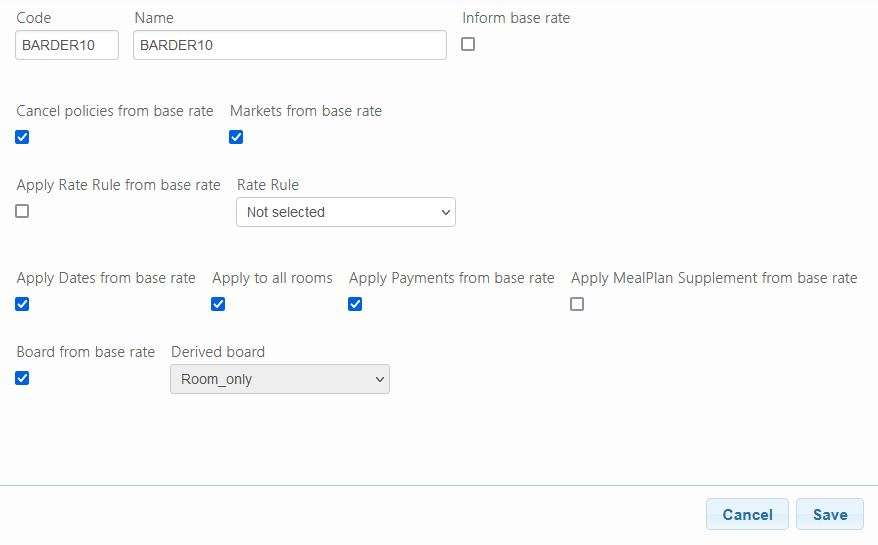
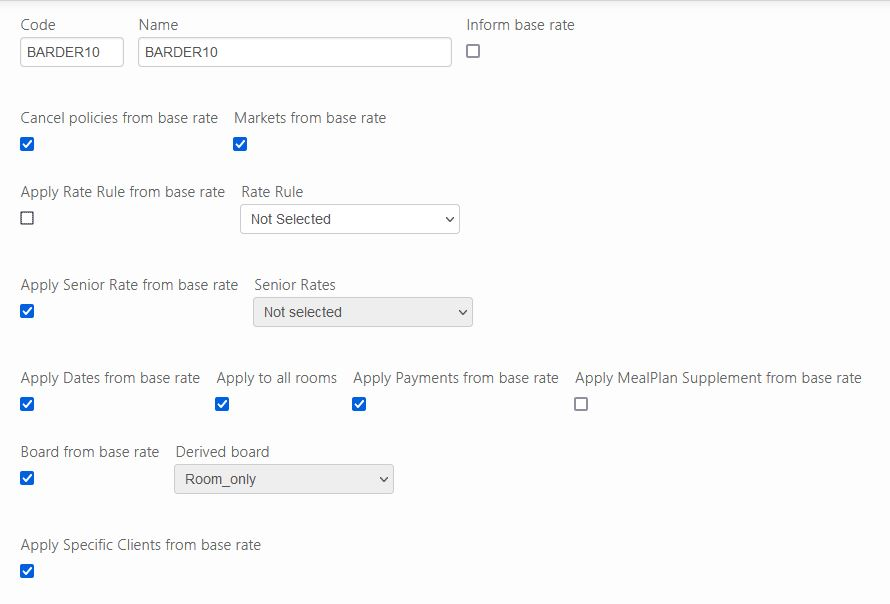
Add senior rate editable to derived rates

diff --git a/content/connectiontypesbuyers/channel-x/api-reference/messages/_index.md b/content/connectiontypesbuyers/channel-x/api-reference/messages/_index.md
@@ -211,7 +211,7 @@ The ``HotelRatePlanInventoryNotif`` message contains information about the inven
 | @Start      				          | 0..1 	  | Date	   | Booking Start Date for which the rate will be available.               |
 | @End        				          | 0..1	  | Date     | Booking Start Date for which the rate will be available.               |
 | @RatePlanType        				  | 0..1	  | String     | Rate rule to apply. 0 - No selected, 7 - Large Family, 8 - Public Servant, 10 - Negotiated, 11 - Package, 34 - Canary Resident, 35 - Balearic Resident, 36 - Honeymoon. If the attribute is not present and it is a base rate, the value is 0, if it is a derived rate, the value is the same as the parent rate.               |
-| @PromotionCode        				    | 0..1	 | String     | Promotion code to apply. 25 - Senior_55  26 - Senior_60, 27 - Senior_65. If the attribute is not present there is no promotion code. Not applicable for derived rates.|
+| @PromotionCode        				    | 0..1	 | String     | Promotion code to apply. 0 - NoPromotion, 25 - Senior55  26 - Senior60, 27 - Senior65. If the attribute is not present or its value is 0 there is no promotion|
 | RatePlan/BookingRules            	    | 0..1    |	         |                                                                       |
 | ../BookingRule		                | 1..n    |	         | 					                                                             |
 | @Code       				          | 0..1	  | String   | Empty if there are viewships conditions                               |

diff --git a/content/connectiontypessellers/hotelpushsellers/api-reference/messages/set-up/hotelrateplaninventorynotif.md b/content/connectiontypessellers/hotelpushsellers/api-reference/messages/set-up/hotelrateplaninventorynotif.md
@@ -300,7 +300,7 @@ Providers send a HotelRatePlanInventoryNotifRQ message to push the Hotel SetUp i
 | @Start      				    | 0..1 	 | Date	    | Start date of the rate booking window (Booking Dates for which the rate will be available). |
 | @End        				    | 0..1	 | Date     | End date of the rate booking window (Booking Dates for which the rate will be available). |
 | @RatePlanType        				    | 0..1	 | String     | Rate rule to apply. 0 - No selected, 7 - Large Family, 8 - Public Servant, 10 - Negotiated, 11 - Package, 34 - Canary Resident, 35 - Balearic Resident, 36 - Honeymoon. If the attribute is not present and it is a base rate, the value will be 0, if it is a derived rate, the value will be the same as the parent rate.   |
-| @PromotionCode        				    | 0..1	 | String     | Promotion code to apply. 25 - Senior_55  26 - Senior_60, 27 - Senior_65. If the attribute is not present there is no promotion code. Not applicable for derived rates.|
+| @PromotionCode        				    | 0..1	 | String     | Promotion code to apply. 0 - NoPromotion, 25 - Senior55  26 - Senior60, 27 - Senior65. If the attribute is not present and it is a Base rate there is no promotion code (same as sent 0), but if it is a derived rate, this inherits de base rate promotion.|
 | @FreeBaby        				    | 1	 | Boolean     | Free babies promotion|
 | @FreeChild        				    | 1	 | Boolean     | Free children promotion |
 | RatePlans/BookingRules		    | 0..1       |	    | Present if exists booking rules for the given RatePlan.|

diff --git a/content/inventory-x/extranet/load-product/setup/_index.md b/content/inventory-x/extranet/load-product/setup/_index.md
@@ -192,6 +192,8 @@ The information needed to add a derived rate is listed below:
 * **Markets from base rate:** Checkbox that will apply the markets from the base rate to the derived rate depending on whether it is checked or not. If unchecked, a form appears like the one seen previously when adding a rate, letting you select any markets you may want included or excluded for this derived rate.
 * **Apply Rate Rule from base rate:** Checkbox that will apply the same rate rule from the base rate depending on whether it is checked or not.
 * **Rate Rule:** Rate rule to select if you do not want apply the same than the base rate.
+* **Apply Senior Rate from base rate:** Checkbox that will apply the same senior rate from the base rate depending on whether it is checked or not.
+* **Senior Rates:** Senior rate to select if you do not want apply the same than the base rate.
 * **Active:** Checkbox to activate or deactivate the derived rate. If it is checked the derived rate is active.
 * **Apply Dates from base rate:** Checkbox used to apply the effective dates from the base rate. If unchecked, a form like the one explained previously when creating a rate will pop up.
 * **Board from base rate:** Checkbox used to apply the meal plan from the base rate. If unchecked, the meal plan list will be enabled and you will be able to select the board of the derived rate.

diff --git a/content/connectiontypessellers/hotelpushsellers/api-reference/messages/set-up/hotelrateplaninventoryretrieve.md b/content/connectiontypessellers/hotelpushsellers/api-reference/messages/set-up/hotelrateplaninventoryretrieve.md
@@ -293,7 +293,7 @@ In the previous example we received one hotel, one Rate Plan and 2 rooms. One of
 | @Duration				    | 0..1  	 | String   | Duration of the rate booking window. Only present if Start and End are not. When present value is always 0 and means the rate has no booking window (available all dates). |
 | @BaseRatePlanCode			    | 0..1 	 | String   | Rate plan code of the base rate plan. Only returned for derived rates. |
 | @RatePlanStatusType			    | 1 	 | String   | Indicates if the rate plan is active or not for this dates. Possible values: "Active", "Deactivated". |
-| @PromotionCode        				    | 0..1	 | String     | Promotion code to apply. 25 - Senior_55  26 - Senior_60, 27 - Senior_65. If the attribute is not present there is no promotion code. Not applicable for derived rates.|
+| @PromotionCode        				    | 0..1	 | String     | Promotion code to apply. 0 - NoPromotion, 25 - Senior55  26 - Senior60, 27 - Senior65. If the attribute is not present or its value is 0 there is no promotion|
 | @FreeBaby        				    | 1	 | Boolean     | Free babies promotion|
 | @FreeChild        				    | 1	 | Boolean     | Free children promotion |
 | RatePlans/RatePlan/Description/Text	    | 1     	 |	    | Description of rate. 				|
